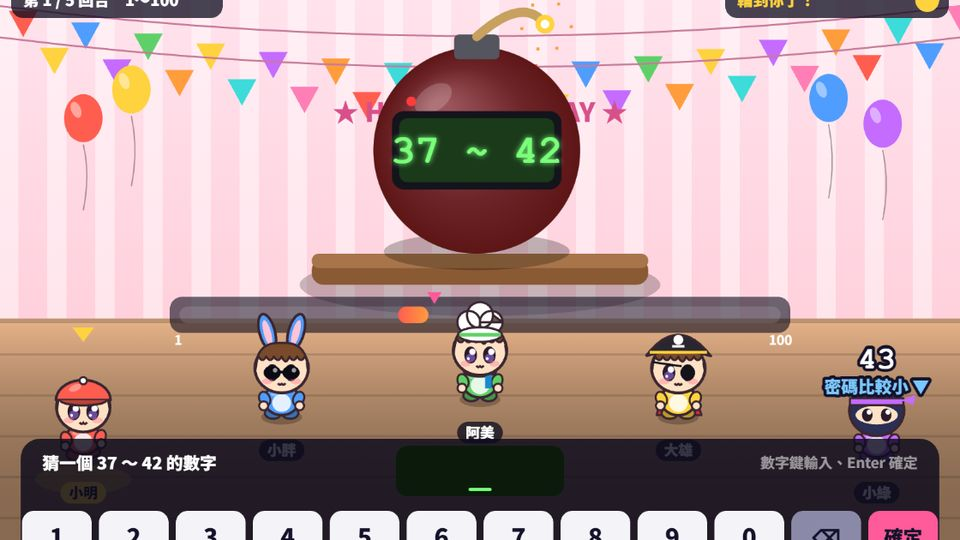
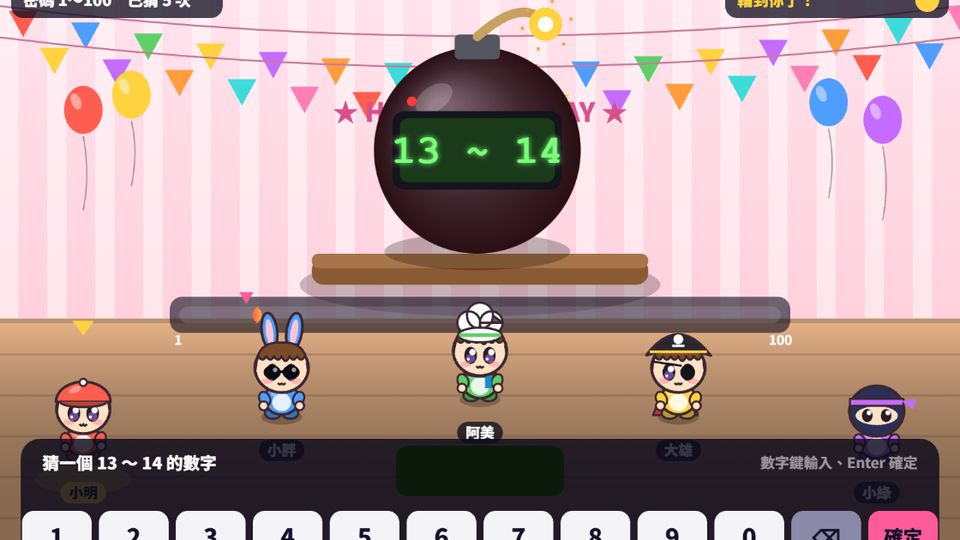
密碼炸彈大挑戰取消回合數、連線可輪流出密碼（v270）
- 一局玩到有人猜中密碼被炸為止，結算列出每個人猜過的數字
- 連線新增「玩家輪流出密碼」（預設）：每局換下一個人出，出題的人不猜，密碼只送給房主
- 大廳紀錄改成「平安沒被炸幾局」，封面重拍

diff --git a/boomcode.js b/boomcode.js
@@ -1,5 +1,5 @@
-// 密碼炸彈大挑戰（終極密碼）：炸彈裡藏一個數字，大家輪流猜，範圍越縮越小，猜中密碼的人就被炸！
-// 單人配電腦、同機 2 人輪流用同一個數字鍵盤、連線最多 8 人（房主運算；密碼只在房主那邊）。
+// 密碼炸彈大挑戰（終極密碼）：炸彈裡藏一個數字，大家輪流猜，範圍越縮越小，猜中密碼的人就被炸，一局玩到有人被炸為止。
+// 單人配電腦、同機 2 人輪流用同一個數字鍵盤、連線最多 8 人（房主運算；密碼只在房主那邊）。連線可以讓玩家輪流出密碼（每局換下一個人出，出題的人不猜）。
 (function(){
 'use strict';
 const W=800,H=500,TC='"Noto Sans TC","Microsoft JhengHei",sans-serif',TAU=Math.PI*2;
@@ -55,41 +55,46 @@ function bombArt(c,x,y,R,t,hot,lo,hi,flash,boomT){ c.save(); c.translate(x+(hot>
   c.fillStyle='#ff3b3b'; c.beginPath(); c.arc(-sw/2+10,-sh/2-14,4,0,TAU); c.fill(); if(Math.sin(t*(4+hot*16))>0){ c.fillStyle='#ff9a9a'; c.beginPath(); c.arc(-sw/2+10,-sh/2-14,2,0,TAU); c.fill(); }
   c.restore(); }
 
+let SET_ROT=0; // 連線輪流出密碼：房主記到第幾個人了（重玩時換下一個）
 function create(env,opts){
   const {ctx:c,canvas}=env.canvas2d(W,H),net=opts.net,client=!!net&&!net.host,host=!client,two=!net&&opts.mode==='2p',pv=!!opts.preview,OP=opts.options||{},sc=clamp(opts.stage|0,0,SCN.length-1);
-  const MAX=+OP.max||100,ROUNDS=+OP.rounds||5,TL=OP.time==null?12:+OP.time;
+  const MAX=+OP.max||100,TL=OP.time==null?12:+OP.time,ST=30;
   const humans=net?net.count:pv?0:two?2:1,n=net?clamp(net.count+(net.bots||0),2,8):clamp(+OP.seats||5,2,8),me=net?net.me:0;
   const names=[],looks=[]; for(let i=0;i<n;i++){ if(i<humans){ names.push(net?(net.names&&net.names[i])||'玩家'+(i+1):two?(i+1)+'P':(opts.name||'你')); looks.push(net?(net.looks&&net.looks[i])||{}:i===0?opts.look||{}:{}); } else { names.push(BOTN[(i-humans+sc*2)%BOTN.length]); looks.push(BOTLOOK(i+sc)); } }
   const colOf=i=>{ const L=looks[i]; return !L||!L.color||L.color==='auto'?PCOL[i%8]:L.color; };
   const mine=i=>two?i<2:i===me;
   let secret=0,t=0,ended=false,sendT=0,evq=[],shake=0,fx=[],buf='',aiT=1,aiN=0,aiTxt='',flash=0,pops=[];
-  let G={ph:'intro',T:pv?.4:2.2,round:1,lo:1,hi:MAX,cur:(opts.first||0)%n,turnT:TL,boom:Array(n).fill(0),last:null,hits:0,boomAt:-1,boomN:0,msg:'',guessN:0,typing:''};
+  let mySec=0; const setter=net&&host&&OP.setter!=='cpu'&&!pv?(SET_ROT++)%net.count:-1;
+  let G={ph:'intro',T:pv?.4:2.2,lo:1,hi:MAX,cur:0,setter,turnT:TL,boom:Array(n).fill(0),last:null,hits:0,boomAt:-1,boomN:0,msg:'',guessN:0,typing:'',hist:[]};
+  const nxt=i=>{ let q=(i+1)%n; if(q===G.setter) q=(q+1)%n; return q; }; G.cur=(opts.first||0)%n; if(G.cur===G.setter) G.cur=nxt(G.cur);
   const sfx=k=>{ if(pv) return; env.sfx(k); if(net&&host) evq.push(k); };
   const tone=(f,d,type,v)=>{ const A=env.audio&&env.audio(); if(!A||pv) return; try{ const o=A.createOscillator(),g=A.createGain(),t0=A.currentTime; o.type=type||'square'; o.frequency.value=f; g.gain.setValueAtTime(v||.05,t0); g.gain.exponentialRampToValueAtTime(.001,t0+d); o.connect(g); g.connect((env.out&&env.out())||A.destination); o.start(t0); o.stop(t0+d+.02); }catch(e){} };
   const hot=()=>1-clamp((G.hi-G.lo)/(MAX-1),0,1);
-  function newRound(){ secret=1+Math.floor(Math.random()*MAX); G.lo=1; G.hi=MAX; G.last=null; G.ph='turn'; G.turnT=TL; G.msg=''; startTurn(); sfx('go'); }
+  function newRound(){ if(G.setter>=0&&!secret){ G.ph='set'; G.turnT=ST; return; } if(!secret) secret=1+Math.floor(Math.random()*MAX); G.lo=1; G.hi=MAX; G.last=null; G.ph='turn'; G.turnT=TL; G.msg=''; startTurn(); sfx('go'); }
   function startTurn(){ G.turnT=TL; G.typing=''; buf=''; aiT=.9+Math.random()*1.2; aiN=pickBot(); aiTxt=''; }
   /* 電腦：大多猜中間附近，有時故意只縮一點點、有時大膽砍一刀 */
   function pickBot(){ const lo=G.lo,hi=G.hi,sz=hi-lo; if(sz<=0) return lo; const r=Math.random(); let g; if(sz<=3) g=lo+Math.floor(Math.random()*(sz+1)); else if(r<.25) g=Math.random()<.5?lo+1+Math.floor(Math.random()*2):hi-1-Math.floor(Math.random()*2); else if(r<.5) g=Math.round(lo+sz*(.5+(Math.random()-.5)*.3)); else g=Math.round(lo+sz*(.2+Math.random()*.6)); return clamp(g,lo,hi); }
   function guess(who,g){ if(G.ph!=='turn'||who!==G.cur) return false; g=Math.round(+g); if(!(g>=G.lo&&g<=G.hi)) return false;
-    G.guessN++; G.last={who,g,dir:0};
+    G.guessN++; G.last={who,g,dir:0}; G.hist.push([who,g]);
     if(g===secret){ G.ph='boom'; G.T=3; G.boom[who]++; G.boomAt=who; G.boomN++; G.hits=secret; G.msg=names[who]+' 猜中密碼 '+secret+'！'; sfx('boom'); sfx('hurt'); return true; }
     if(g<secret){ G.lo=g+1; G.last.dir=1; } else { G.hi=g-1; G.last.dir=-1; }
-    sfx('place'); G.cur=(G.cur+1)%n; startTurn(); return true; }
+    sfx('place'); G.cur=nxt(G.cur); startTurn(); return true; }
+  function setSecret(who,v){ if(G.ph!=='set'||who!==G.setter) return; v=Math.round(+v); if(!(v>=1&&v<=MAX)) return; secret=v; newRound(); }
   function stepHost(dt){
     if(G.ph==='intro'){ G.T-=dt; if(G.T<=0) newRound(); return; }
+    if(G.ph==='set'){ G.turnT-=dt; if(G.turnT<=0){ secret=1+Math.floor(Math.random()*MAX); newRound(); } return; }
     if(G.ph==='turn'){ if(TL>0){ G.turnT-=dt; if(G.turnT<=0){ const g=G.lo+Math.floor(Math.random()*(G.hi-G.lo+1)); G.msg='時間到！自動猜 '+g; guess(G.cur,g); return; } }
       if(G.cur>=humans){ aiT-=dt; const s=String(aiN); G.typing=s.slice(0,clamp(Math.floor((1.6-aiT)*4),0,s.length)); if(aiT<=0) guess(G.cur,aiN); } }
-    if(G.ph==='boom'){ G.T-=dt; if(G.T<=0){ if(G.round>=ROUNDS){ G.ph='end'; G.T=1.2; } else { G.round++; G.cur=G.boomAt; G.ph='ready'; G.T=1.6; } } }
-    if(G.ph==='ready'){ G.T-=dt; if(G.T<=0) newRound(); }
+    if(G.ph==='boom'){ G.T-=dt; if(G.T<=0){ G.ph='end'; G.T=.3; } }
     if(G.ph==='end'){ G.T-=dt; if(G.T<=0&&!ended){ ended=true; if(net) net.send({st:G}); finish(); } } }
-  function finish(){ const order=[...Array(n).keys()].sort((a,b)=>G.boom[a]-G.boom[b]),least=G.boom[order[0]],win=order.filter(i=>G.boom[i]===least),myB=two?Math.min(G.boom[0],G.boom[1]):G.boom[me],iWin=win.some(mine);
-    env.sfx(iWin?'win':'lose');
-    env.end({title:win.length>1?win.map(i=>names[i]).join('、')+' 並列最安全':names[win[0]]+' 最會閃炸彈！',big:two?(win.some(i=>i<2)?(G.boom[0]<G.boom[1]?'1P 獲勝':G.boom[1]<G.boom[0]?'2P 獲勝':'1P、2P 平手'):'電腦獲勝'):iWin?'你最安全':'你被炸了 '+myB+' 次',
-      html:'<table class="ls"><tr><th>玩家</th><th>被炸次數</th></tr>'+order.map(i=>'<tr><td>'+names[i]+'</td><td>'+(G.boom[i]?'💥'.repeat(G.boom[i]):'沒被炸')+'</td></tr>').join('')+'</table>',text:ROUNDS+' 回合結束',score:!net&&!two&&!pv?G.boom[me]:null}); }
+  function finish(){ const L=G.boomAt,meLose=two?L<2:L===me,iSet=!two&&G.setter===me&&me>=0; if(!net&&!pv&&!(two?false:meLose)) try{ localStorage.setItem('arcade.boomcode.safe',(+localStorage.getItem('arcade.boomcode.safe')||0)+1); }catch(e){}
+    env.sfx(meLose&&!two?'lose':'win');
+    env.end({title:names[L]+' 猜中密碼 '+G.hits+'，被炸了！',big:two?(L===0?'2P 獲勝':L===1?'1P 獲勝':'1P、2P 都安全'):meLose?'你被炸了！':iSet?'你的密碼炸到 '+names[L]+'！':'你安全了！',
+      text:'密碼是 '+G.hits+(G.setter>=0?'（'+names[G.setter]+' 出的）':'')+'，大家一共猜了 '+G.hist.length+' 次',
+      html:'<table class="ls"><tr><th>順序</th><th>玩家</th><th>猜的數字</th></tr>'+G.hist.map((h,k)=>'<tr><td>'+(k+1)+'</td><td>'+names[h[0]]+'</td><td>'+(h[0]===L&&k===G.hist.length-1?'💥 '+h[1]:h[1])+'</td></tr>').join('')+'</table>',score:null}); }
   const pub=()=>Object.assign({},G); // 密碼不在 G 裡，別人看不到
   if(net){ if(client) net.onmsg=m=>{ if(m.st){ const was=G.boomN,wasG=G.guessN; G=m.st; if(G.boomN>was) bigBoom(); if(G.guessN>wasG&&G.ph==='turn'){ buf=''; pop(); } if(G.ph==='end'&&!ended&&G.T<=0){ ended=true; finish(); } } if(m.ev) for(const k of m.ev) env.sfx(k); };
-    else net.onmsg=(m,from)=>{ if(m.g!=null) guess(from,m.g); }; }
+    else net.onmsg=(m,from)=>{ if(m.g!=null) guess(from,m.g); if(m.sec!=null) setSecret(from,m.sec); }; }
   const BX=400,BY=150,BR=86;
   function bigBoom(){ shake=18; flash=0; for(let i=0;i<90;i++){ const a=Math.random()*TAU,s=80+Math.random()*420; fx.push({x:BX,y:BY,vx:Math.cos(a)*s,vy:Math.sin(a)*s-80,l:.5+Math.random()*.9,c:['#ffd23f','#ff7a3d','#ff3b3b','#fff','#55505a'][i%5],s:3+Math.random()*7}); } fx.push({ring:1,x:BX,y:BY,l:.6,L:.6}); const p=seat(G.boomAt); for(let i=0;i<14;i++) fx.push({smoke:1,x:p[0]+(Math.random()-.5)*30,y:p[1]-90,vx:(Math.random()-.5)*30,vy:-30-Math.random()*30,l:1.4+Math.random(),c:'#3a3438',s:10+Math.random()*10}); }
   function pop(){ flash=.18; if(G.last){ const p=seat(G.last.who); pops.push({x:p[0],y:p[1]-80,g:G.last.g,dir:G.last.dir,l:1.1}); } tone(500+hot()*700,.08,'square',.05); }
@@ -97,9 +102,11 @@ function create(env,opts){
   /* 數字鍵盤（在自己回合才出現） */
   const KEYS=['1','2','3','4','5','6','7','8','9','0','⌫','確定'],kRect=k=>{ const w=58,gp=6,x0=W/2-(12*(w+gp)-gp)/2; return [x0+k*(w+gp),H-50,w+(k===11?0:0),42]; };
   const toG=e=>{ const r=canvas.getBoundingClientRect(),s=Math.min(r.width/W,r.height/H); return [(e.clientX-r.left-(r.width-W*s)/2)/s,(e.clientY-r.top-(r.height-H*s)/2)/s]; };
-  const myTurn=()=>G.ph==='turn'&&(two?G.cur<2:G.cur===me)&&!pv;
+  const mySet=()=>G.ph==='set'&&G.setter===me&&!pv&&!mySec,myTurn=()=>!pv&&(mySet()||G.ph==='turn'&&(two?G.cur<2:G.cur===me));
+  const rng=()=>mySet()?[1,MAX]:[G.lo,G.hi];
   function type(k){ if(!myTurn()) return; if(k==='⌫'){ buf=buf.slice(0,-1); tone(300,.04); return; } if(k==='確定'){ submit(); return; } if(buf.length>=String(MAX).length) return; buf=(buf+k).replace(/^0+/,''); tone(700,.04); }
-  function submit(){ if(!buf) return; const g=+buf; if(!(g>=G.lo&&g<=G.hi)){ G.bad=.6; buf=''; env.sfx('bump'); return; } if(client){ net.send({g}); buf=''; G.typing=''; } else { const w=G.cur; buf=''; guess(w,g); } }
+  function submit(){ if(!buf) return; const g=+buf,[lo,hi]=rng(); if(!(g>=lo&&g<=hi)){ G.bad=.6; buf=''; env.sfx('bump'); return; }
+    if(mySet()){ mySec=g; buf=''; tone(900,.1); if(client) net.send({sec:g}); else setSecret(me,g); return; } if(client){ net.send({g}); buf=''; G.typing=''; } else { const w=G.cur; buf=''; guess(w,g); } }
   let pressK=-1,pressT=0;
   const pd=e=>{ if(!myTurn()) return; const [x,y]=toG(e); for(let k=0;k<12;k++){ const [a,b,w,h]=kRect(k); if(x>=a&&x<=a+w&&y>=b&&y<=b+h){ pressK=k; pressT=.12; type(KEYS[k]); } } };
   canvas.addEventListener('pointerdown',pd);
@@ -107,8 +114,8 @@ function create(env,opts){
     for(let i=fx.length-1;i>=0;i--){ const f=fx[i]; f.l-=dt; if(f.l<=0){ fx.splice(i,1); continue; } if(f.smoke){ f.x+=f.vx*dt; f.y+=f.vy*dt; f.s+=dt*14; } else if(!f.ring){ f.x+=f.vx*dt; f.y+=f.vy*dt; f.vy+=480*dt; } }
     for(let i=pops.length-1;i>=0;i--){ pops[i].l-=dt; if(pops[i].l<=0) pops.splice(i,1); }
     if(myTurn()){ for(let d=0;d<10;d++) if(env.hit('Digit'+d)||env.hit('Numpad'+d)) type(String(d)); if(env.hit('Backspace')) type('⌫'); if(env.hit('Enter')||env.hit('NumpadEnter')||env.hit('Space')) type('確定');
-      if(env.hit('ArrowUp')){ buf=String(clamp((+buf||G.lo-1)+1,G.lo,G.hi)); tone(700,.03); } if(env.hit('ArrowDown')){ buf=String(clamp((+buf||G.hi+1)-1,G.lo,G.hi)); tone(700,.03); }
-      if(env.hit('ArrowRight')){ buf=String(clamp((+buf||G.lo)+10,G.lo,G.hi)); tone(760,.03); } if(env.hit('ArrowLeft')){ buf=String(clamp((+buf||G.hi)-10,G.lo,G.hi)); tone(760,.03); } }
+      const [lo,hi]=rng(); if(env.hit('ArrowUp')){ buf=String(clamp((+buf||lo-1)+1,lo,hi)); tone(700,.03); } if(env.hit('ArrowDown')){ buf=String(clamp((+buf||hi+1)-1,lo,hi)); tone(700,.03); }
+      if(env.hit('ArrowRight')){ buf=String(clamp((+buf||lo)+10,lo,hi)); tone(760,.03); } if(env.hit('ArrowLeft')){ buf=String(clamp((+buf||hi)-10,lo,hi)); tone(760,.03); } }
     if(client) return;
     const was=G.boomN,wasG=G.guessN,wasPh=G.ph; stepHost(dt); if(G.boomN>was) bigBoom(); else if(G.guessN>wasG) pop();
     if(net){ sendT-=dt; if(sendT<=0){ sendT=1/12; net.send({st:pub()}); if(evq.length){ net.send({ev:evq}); evq=[]; } } } }
@@ -119,11 +126,11 @@ function create(env,opts){
     /* 範圍條 */ const bx0=150,bw=500,by=BY+BR+44; c.fillStyle='rgba(11,10,28,.6)'; rr(c,bx0-8,by-8,bw+16,30,10); c.fill(); c.fillStyle='rgba(255,255,255,.12)'; rr(c,bx0,by,bw,14,7); c.fill();
     const X=v=>bx0+(v-1)/(MAX-1||1)*bw,x1=X(G.lo),x2=X(G.hi); const gg=c.createLinearGradient(x1,0,x2+1,0); gg.addColorStop(0,H0>.7?'#ff5d4f':'#ffd23f'); gg.addColorStop(1,H0>.7?'#ff9d3d':'#5fd068'); c.fillStyle=gg; rr(c,x1,by,Math.max(8,x2-x1),14,7); c.fill();
     c.fillStyle='#fff'; c.font='700 11px '+TC; c.textAlign='center'; c.textBaseline='middle'; c.fillText('1',bx0-1,by+28); c.fillText(String(MAX),bx0+bw,by+28); if(G.last&&G.ph==='turn'){ const lx=X(G.last.g); c.fillStyle='#ff5a9a'; c.beginPath(); c.moveTo(lx,by-2); c.lineTo(lx-6,by-12); c.lineTo(lx+6,by-12); c.fill(); }
-    /* 人物 */ const C=window.ARCADE_CHAR; for(let i=0;i<n;i++){ const [x,y]=seat(i),cur=G.cur===i&&(G.ph==='turn'),L=looks[i]||{},hitMe=G.boomAt===i&&(G.ph==='boom'||G.ph==='ready');
+    /* 人物 */ const C=window.ARCADE_CHAR; for(let i=0;i<n;i++){ const [x,y]=seat(i),cur=G.cur===i&&(G.ph==='turn'),L=looks[i]||{},hitMe=G.boomAt===i&&(G.ph==='boom'||G.ph==='end');
       if(cur){ c.fillStyle='rgba(255,210,63,.35)'; c.beginPath(); c.ellipse(x,y+4,40,12,0,0,TAU); c.fill(); c.fillStyle='#ffd23f'; c.beginPath(); const by2=y-124+Math.sin(t*6)*4; c.moveTo(x,by2+12); c.lineTo(x-9,by2); c.lineTo(x+9,by2); c.fill(); }
       if(C) C.drawChar(c,x,y-38,hitMe?'#4a4044':colOf(i),1,cur,t+i,1.7,L.char||'cap',L.deco||''); if(hitMe){ c.fillStyle='rgba(30,26,30,.55)'; c.beginPath(); c.arc(x,y-76,26,0,TAU); c.fill(); c.strokeStyle='#ffd23f'; c.lineWidth=2; c.beginPath(); for(let k=0;k<3;k++){ const a=t*5+k*2.1; c.moveTo(x+Math.cos(a)*24,y-84+Math.sin(a)*5); c.lineTo(x+Math.cos(a)*24+3,y-88+Math.sin(a)*5); } c.stroke(); }
       const nm=names[i].slice(0,6); c.font='900 12px '+TC; c.textAlign='center'; c.textBaseline='middle'; const w2=c.measureText(nm).width+14; c.fillStyle=mine(i)?'#ffd23f':'rgba(11,10,28,.75)'; rr(c,x-w2/2,y+6,w2,18,9); c.fill(); c.fillStyle=mine(i)?'#14122b':'#fff'; c.fillText(nm,x,y+15);
-      if(G.boom[i]){ c.font='13px sans-serif'; c.fillText('💥'.repeat(Math.min(5,G.boom[i]))+(G.boom[i]>5?'×'+G.boom[i]:''),x,y+33); }
+      if(G.setter===i){ c.fillStyle='#ffd23f'; rr(c,x-34,y+28,68,18,9); c.fill(); c.fillStyle='#14122b'; c.font='900 11px '+TC; c.fillText('🔑 出密碼',x,y+37); }
       if(cur&&i>=humans&&G.typing){ c.fillStyle='#fff'; rr(c,x-30,y-148,60,28,10); c.fill(); c.fillStyle='#14122b'; c.font='900 18px "Courier New",monospace'; c.fillText(G.typing,x,y-134); }
       else if(cur&&i>=humans){ c.fillStyle='rgba(255,255,255,.9)'; rr(c,x-24,y-146,48,24,10); c.fill(); c.fillStyle='#14122b'; c.font='900 16px sans-serif'; c.fillText('.'.repeat(1+Math.floor(t*3)%3),x,y-134); } }
     /* 猜的數字飛出來 */ for(const p of pops){ const a=Math.min(1,p.l*2),u=1-p.l/1.1; c.globalAlpha=a; c.font='900 26px "Courier New",monospace'; c.lineWidth=5; c.strokeStyle='#14122b'; c.textAlign='center'; const y=p.y-u*30; c.strokeText(p.g,p.x,y); c.fillStyle='#fff'; c.fillText(p.g,p.x,y); c.font='900 14px '+TC; const s=p.dir>0?'密碼比較大 ▲':'密碼比較小 ▼'; c.strokeText(s,p.x,y+22); c.fillStyle=p.dir>0?'#7aff7a':'#7ac8ff'; c.fillText(s,p.x,y+22); c.globalAlpha=1; }
@@ -131,33 +138,36 @@ function create(env,opts){
     if(boomNow){ const k=(G.T-1.2)/1.8; c.fillStyle='rgba(255,240,180,'+Math.max(0,k-.6)*2+')'; c.fillRect(0,0,W,H); bombArt(c,BX,BY,BR*.9,t,1,0,0,0,1); }
     c.restore();
     c.textAlign='center'; c.textBaseline='middle';
-    if(G.ph==='boom'||G.ph==='ready'){ c.font='900 30px '+TC; c.lineWidth=7; c.strokeStyle='#14122b'; c.strokeText(G.msg,W/2,BY-BR-8>30?BY-BR-14:40); c.fillStyle='#ffd23f'; c.fillText(G.msg,W/2,BY-BR-8>30?BY-BR-14:40); }
-    if(G.ph==='intro'||G.ph==='ready'&&G.T<1.2){ const s='第 '+G.round+' / '+ROUNDS+' 回合'; c.font='900 34px '+TC; c.lineWidth=7; c.strokeStyle='#14122b'; c.strokeText(s,W/2,BY); c.fillStyle='#fff'; c.fillText(s,W/2,BY); }
-    /* 左上：回合、計時 */ c.fillStyle='rgba(11,10,28,.75)'; rr(c,10,10,176,30,10); c.fill(); c.fillStyle='#fff'; c.font='900 13px '+TC; c.textAlign='left'; c.fillText('第 '+G.round+' / '+ROUNDS+' 回合　1～'+MAX,20,25);
+    if(G.ph==='boom'||G.ph==='end'){ c.font='900 30px '+TC; c.lineWidth=7; c.strokeStyle='#14122b'; c.strokeText(G.msg,W/2,BY-BR-8>30?BY-BR-14:40); c.fillStyle='#ffd23f'; c.fillText(G.msg,W/2,BY-BR-8>30?BY-BR-14:40); }
+    if(G.ph==='intro'){ const s='誰會踩到密碼？'; c.font='900 34px '+TC; c.lineWidth=7; c.strokeStyle='#14122b'; c.strokeText(s,W/2,BY); c.fillStyle='#fff'; c.fillText(s,W/2,BY); }
+    /* 左上：回合、計時 */ c.fillStyle='rgba(11,10,28,.75)'; rr(c,10,10,176,30,10); c.fill(); c.fillStyle='#fff'; c.font='900 13px '+TC; c.textAlign='left'; c.fillText('密碼 1～'+MAX+'　已猜 '+G.hist.length+' 次',20,25);
+    if(mySec&&G.setter===me){ c.fillStyle='rgba(11,10,28,.75)'; rr(c,10,46,176,28,10); c.fill(); c.fillStyle='#7aff7a'; c.fillText('🔑 你出的密碼：'+mySec,20,60); }
+    if(G.ph==='set'){ const s=G.setter===me?(mySec?'密碼設好了！':'偷偷輸入一個密碼，別人看不到！'):names[G.setter]+' 正在出密碼…',yy=BY-BR-14>30?BY-BR-14:40; c.textAlign='center'; c.font='900 24px '+TC; c.lineWidth=6; c.strokeStyle='#14122b'; c.strokeText(s,W/2,yy); c.fillStyle='#ffd23f'; c.fillText(s,W/2,yy); c.font='700 13px '+TC; c.textAlign='right'; c.fillStyle='#fff'; c.fillText('剩 '+Math.ceil(Math.max(0,G.turnT))+' 秒',W-20,25); }
     if(G.ph==='turn'){ const nm=names[G.cur],s=mine(G.cur)?(two?(G.cur+1)+'P 輪到你了！':'輪到你了！'):'輪到 '+nm; c.fillStyle='rgba(11,10,28,.75)'; rr(c,W-196,10,186,30,10); c.fill(); c.fillStyle=mine(G.cur)?'#ffd23f':'#fff'; c.textAlign='left'; c.fillText(s,W-186,25); if(TL>0){ const u=clamp(G.turnT/TL,0,1); c.fillStyle=u<.3&&Math.sin(t*16)>0?'#ff5d4f':'#ffd23f'; c.beginPath(); c.moveTo(W-28,25); c.arc(W-28,25,10,-Math.PI/2,-Math.PI/2+u*TAU); c.fill(); } }
     /* 鍵盤 */ if(myTurn()){ c.fillStyle='rgba(11,10,28,.82)'; rr(c,18,H-110,W-36,104,16); c.fill();
-      c.fillStyle=G.bad>0?'#ff5d4f':'#fff'; c.font='900 14px '+TC; c.textAlign='left'; c.fillText(G.bad>0?'要在 '+G.lo+' ～ '+G.hi+' 裡面喔！':'猜一個 '+G.lo+' ～ '+G.hi+' 的數字',36,H-90);
+      c.fillStyle=G.bad>0?'#ff5d4f':'#fff'; c.font='900 14px '+TC; c.textAlign='left'; const [klo,khi]=rng(); c.fillText(G.bad>0?'要在 '+klo+' ～ '+khi+' 裡面喔！':mySet()?'出一個 1 ～ '+MAX+' 的密碼':'猜一個 '+klo+' ～ '+khi+' 的數字',36,H-90);
       c.fillStyle='#0c1a0c'; rr(c,W/2-70,H-104,140,42,10); c.fill(); c.fillStyle='#7aff7a'; c.font='900 28px "Courier New",monospace'; c.textAlign='center'; c.fillText(buf||(Math.sin(t*6)>0?'_':''),W/2,H-82);
       c.fillStyle='rgba(255,255,255,.55)'; c.font='700 12px '+TC; c.textAlign='right'; c.fillText(env.touch?'點數字、按確定':'數字鍵輸入、Enter 確定',W-36,H-90);
       for(let k=0;k<12;k++){ const [x,y,w,h]=kRect(k),on=pressK===k&&pressT>0; c.fillStyle=k===11?'#ff5a9a':k===10?'#8a8aa8':'#f4f4f8'; rr(c,x,y+(on?2:0),w,h,10); c.fill(); c.fillStyle='rgba(0,0,0,.25)'; if(!on) { rr(c,x,y+h-4,w,4,2); c.fill(); } c.fillStyle='#14122b'; c.font='900 '+(k===11?16:20)+'px '+TC; c.textAlign='center'; c.fillText(KEYS[k],x+w/2,y+h/2+(on?3:1)); } } }
-  return {update,draw,destroy(){ canvas.removeEventListener('pointerdown',pd); },_dbg:{get G(){return G;},get secret(){return secret;},guess}};
+  return {update,draw,destroy(){ canvas.removeEventListener('pointerdown',pd); },_dbg:{get G(){return G;},get secret(){return secret;},guess,setSecret}};
 }
 function stageShow(ctx,w,h,si,t){ ctx.save(); ctx.scale(w/W,h/H); bg(ctx,si,t); const lo=10+Math.floor(t)%20,hi=90-Math.floor(t*1.3)%30; ctx.fillStyle='#8a5a34'; ctx.fillRect(260,240,280,22); bombArt(ctx,400,160,92,t,.4+.3*Math.sin(t),lo,hi,0,0);
   const C=window.ARCADE_CHAR; if(C) for(let i=0;i<5;i++){ const u=i/4,x=90+u*620,y=420-Math.sin(u*Math.PI)*50,L=BOTLOOK(i); C.drawChar(ctx,x,y-30,PCOL[i],1,i===Math.floor(t)%5,t+i,1.4,L.char,L.deco); } ctx.restore(); }
 (window.ARCADE_GAMES=window.ARCADE_GAMES||{}).boomcode={
   name:'密碼炸彈大挑戰',tag:'CODE BOMB',color:'#7aff7a',online:true,maxPlayers:8,minPlayers:2,bots:true,
   coin:o=>({verb:'先猜',names:o.net?[o.net.names[0]||'玩家 1',o.net.names[1]||'玩家 2']:o.mode==='2p'?['1P','2P']:[o.name||'你','電腦']}),
-  desc:'炸彈裡藏了一個密碼數字，大家輪流猜，每猜一次範圍就縮小，猜中密碼的人就被炸！越到後面越緊張，被炸最少次的人贏。',
-  goal:'輪到你時猜一個範圍內的數字。猜中密碼會被炸，被炸最少次的人贏。',
+  desc:'炸彈裡藏了一個密碼數字，大家輪流猜，每猜一次範圍就縮小，猜中密碼的人就被炸！玩到有人被炸為止。連線時可以讓大家輪流出密碼。',
+  goal:'輪到你時猜一個範圍內的數字，猜中密碼就被炸，別當那個人！',
   stages:SCN.map(s=>s.name),stageLabel:'選擇場景',stageShow,thumb:(c,w,h,t)=>stageShow(c,w,h,0,t),
   modes:[{id:'1p',label:'單人'},{id:'2p',label:'雙人同一台'}],
   options:[{key:'max',label:'密碼範圍',def:'100',opts:[{id:'50',label:'1～50（簡單）'},{id:'100',label:'1～100'},{id:'500',label:'1～500（困難）'}]},
-    {key:'rounds',label:'回合數',def:'5',opts:[{id:'3',label:'3 回合'},{id:'5',label:'5 回合'},{id:'8',label:'8 回合'}]},
+    {key:'setter',label:'連線時誰出密碼',def:'turn',opts:[{id:'turn',label:'玩家輪流出'},{id:'cpu',label:'電腦出'}]},
     {key:'time',label:'每次思考時間',def:'12',opts:[{id:'8',label:'8 秒'},{id:'12',label:'12 秒'},{id:'20',label:'20 秒'},{id:'0',label:'不限'}]},
     {key:'seats',label:'單機人數',def:'5',opts:[{id:'3',label:'3 人'},{id:'4',label:'4 人'},{id:'5',label:'5 人'},{id:'6',label:'6 人'},{id:'8',label:'8 人'}]}],
   help:[['數字鍵','輸入數字，Enter 確定'],['↑↓ ←→','加減 1、加減 10'],['雙人','輪到誰就誰按']],
   touchHelp:[['數字鍵盤','點數字，再點「確定」']],touch:null,
   looks:[{key:'char',label:'人物',opts:[{id:'cap',label:'帽子'},{id:'cat',label:'貓耳'},{id:'bunny',label:'兔耳'},{id:'crown',label:'皇冠'},{id:'chef',label:'廚師'},{id:'pirate',label:'海盜'},{id:'ninja',label:'忍者'},{id:'bow',label:'蝴蝶結'}]},{key:'color',label:'人物顏色',type:'color',opts:['auto','#ff5d4f','#4f9dff','#5fd068','#ffd23f','#c56bff','#ff9d3d','#3ddbd9','#ff7eb6']}],
   preview:(ctx,w,h,L,t)=>{ ctx.save(); ctx.scale(w/W,h/H); bg(ctx,0,t); ctx.restore(); const C=window.ARCADE_CHAR; if(C) C.drawChar(ctx,w/2,h*.6,!L||!L.color||L.color==='auto'?PCOL[0]:L.color,1,false,t,2.6,(L&&L.char)||'cap',(L&&L.deco)||''); },
-  best:{label:'被炸次數',fmt:v=>v+' 次',lower:true},create};
+  hubBest:()=>{ let v=0; try{ v=+localStorage.getItem('arcade.boomcode.safe')||0; }catch(e){} return v?'平安沒被炸 <b>'+v+'</b> 局':'尚無紀錄'; },
+  create};
 })();

diff --git a/index.html b/index.html
@@ -275,7 +275,7 @@ body.padswap #pad{flex-direction:row-reverse} /* 方向鍵放右邊 */
 <div id="modal" hidden><div class="card" id="mcard"></div></div>
 
 <script>
-window.ARCADE_V=269; // 每次改版加一
+window.ARCADE_V=270; // 每次改版加一
 (function(){ var q=/github\.io$/.test(location.hostname)?'?v='+window.ARCADE_V:'';
   document.write(['stairs','kart','bomb','volley','dodge3d','dodge','soccer3d','soccer','bowl3d','bowl','baseball3d','baseball','purple','rummy','mahjong','meow','poker','dice','deliver3d','deliver','chess','qi','racer','brawl','bball3d','bball','h3d','golf3d','golf','pool3d','pool','blocks','drum','dance','tower','jelly','rich','space','royale','draw','wolf','passbomb','bubble','claw','tank','dash','spin','night','chase3d','chase','sumo','sky','boxing','ace','classic','hide','spy','sling','room','boomcode','tug','truth','party','gems','chair','tacit','piano','stroke','dragon'].map(function(n){ return '<script src="'+n+'.js'+q+'"><\/script>'; }).join('')); })();
 </script>
